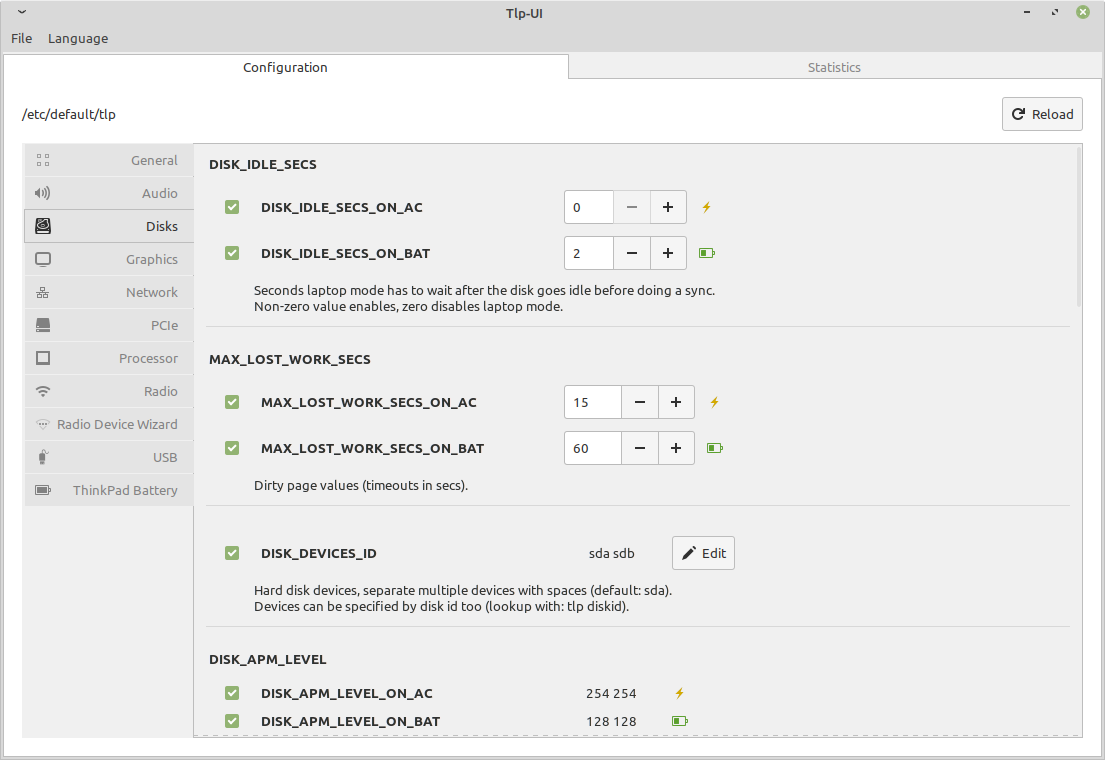
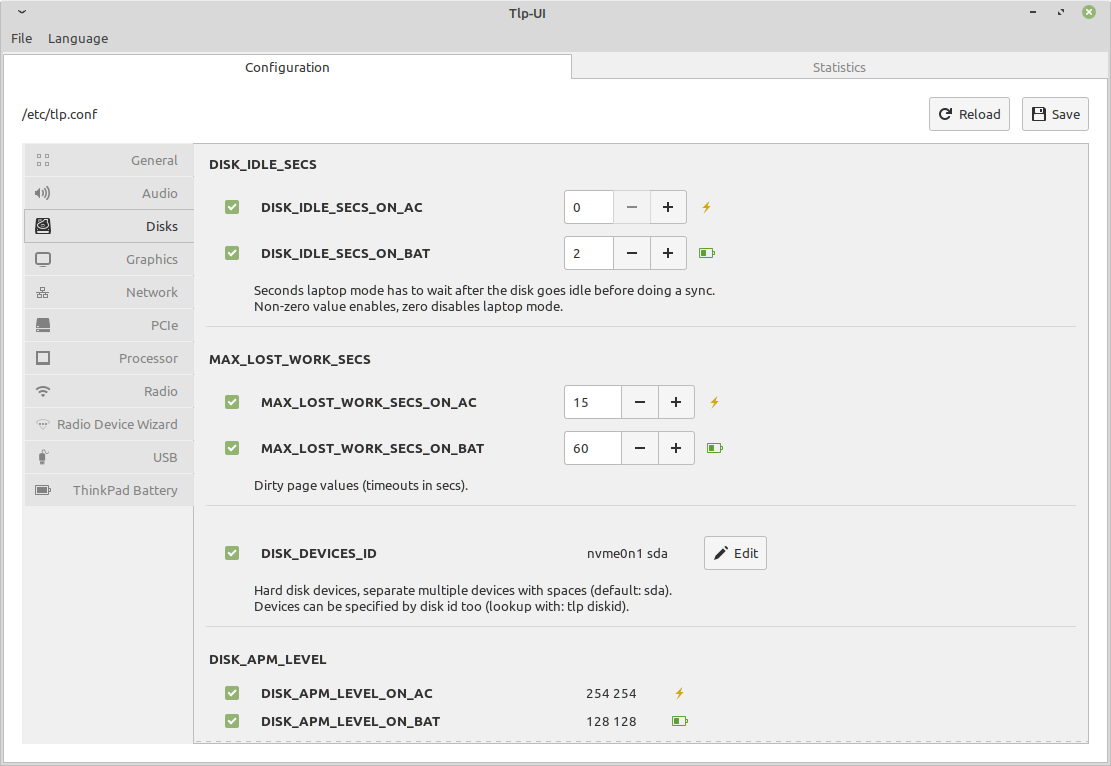
#59 * Readme and screenshot updated

diff --git a/README.md b/README.md
@@ -1,4 +1,4 @@
-TLPUI - 27.01.2020
+TLPUI - 17.02.2020
 
 The Python scripts in this project generate a GTK-UI to change TLP configuration files easily.
 It has the aim to protect users from setting bad configuration and to deliver a basic overview of all the valid configuration values.
